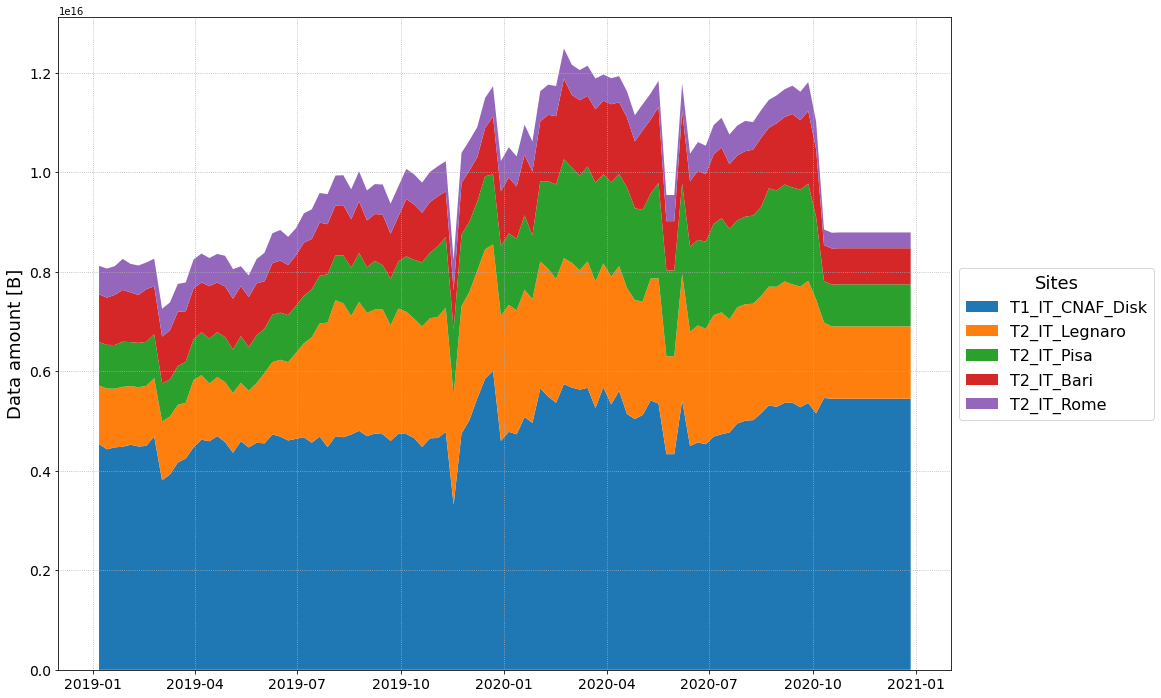
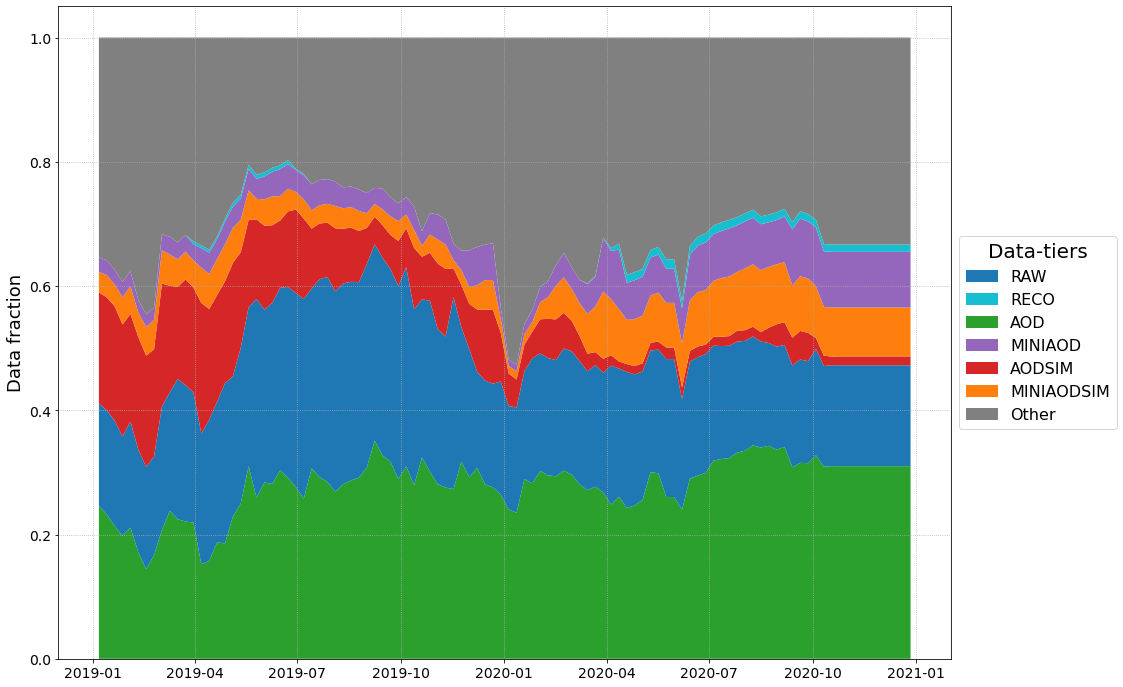
Edit usage example section in readme

diff --git a/README.md b/README.md
@@ -39,31 +39,23 @@ As an example about how to use the toolkit, suppose you want to investigate abou
 
 ```python
 import pandas as pd
+from cmSim.site import Site
 
-# reading data from local parquet file
+# loading dataframe from local parquet file
 df = pd.read_parquet('<FILEPATH>/dataset_site_info.parquet')
+
+# creating Site object from dataframe
+site = Site.from_dataframe(df, name='T1_IT_CNAF_Disk')
 ```
-
-```python
-from cmSim.country import Country
-
-# creating Country object from dataframe
-country = Country.from_dataframe(name='Italy', df=df)
-
-print('country =', country)
-print('T1s =', country.t1_sites)
-print('T2s =', country.t2_sites)
-```
-`country = Country(name=Italy, code=IT, #T1s=1, #T2s=4)`\
-`T1s = ['T1_IT_CNAF_Disk']`\
-`T2s = ['T2_IT_Rome', 'T2_IT_Bari', 'T2_IT_Pisa', 'T2_IT_Legnaro']`
 
 ```python
 import pylab as plt
 
-# plotting history of data stored on disk (grouped by site)
 fig, ax = plt.subplots(figsize=(16, 12))
-country.plot_storage_history_by_site(ax, norm=False)
+
+# plotting history of data stored on disk grouped by datatier
+datatiers = ['RAW', 'RECO', 'AOD', 'MINIAOD', 'AODSIM', 'MINIAODSIM']
+site.plot_storage_history_by_datatier(ax, datatiers=datatiers, norm=True)
 ```
 ![plot](images/example_plot.png)
 
@@ -74,15 +66,15 @@ The repository structure is the following:
 
 - `cmSim\` 🠊 it is the main directory containing the source code (e.g. all the modules implementing classes used in data analysis and model simulation) together with general configurations and additional tools;
 
-    * `config\` 🠊 it contains the JSON files to handle the toolkit configurations and settings (e.g. how to group countries in distinct datalakes, which color to use for plotting data belonging to different data-tiers/working groups, ...);
+    * `config\` 🠊 it contains the JSON files to handle the toolkit configurations and settings (e.g. choose the colors for plotting data belonging to different data-tiers/working groups, ...);
 
-    * `tools\` 🠊 it contains the additional tools implemented to perform some specific tasks related to the project (e.g. perform parallel HTTP requests to the CMS Monte Carlo Management system using multithreading, automatically adjust plotting settings, ...);
+    * `tools\` 🠊 it contains the additional tools implemented to perform some specific tasks related to the project (e.g. perform parallel HTTP requests to the CMS Monte Carlo Management system using multithreading, ...);
 
 - `images\` 🠊 it simply contains the images displayed in README file or other kind of documentation;
 
 - `notebooks\` 🠊 it contains useful notebooks as working examples about how to use the toolkit but also to start exploring the data;
 
-- `scripts\` 🠊 it contains several ready-to-run scripts to perform specific tasks (e.g. split the big PARQUET in smaller files, generate some plots, ...).
+- `scripts\` 🠊 it contains several ready-to-run scripts to perform specific tasks (e.g. split the big PARQUET in smaller files easier to be read, ...).
 
 ```
 .
